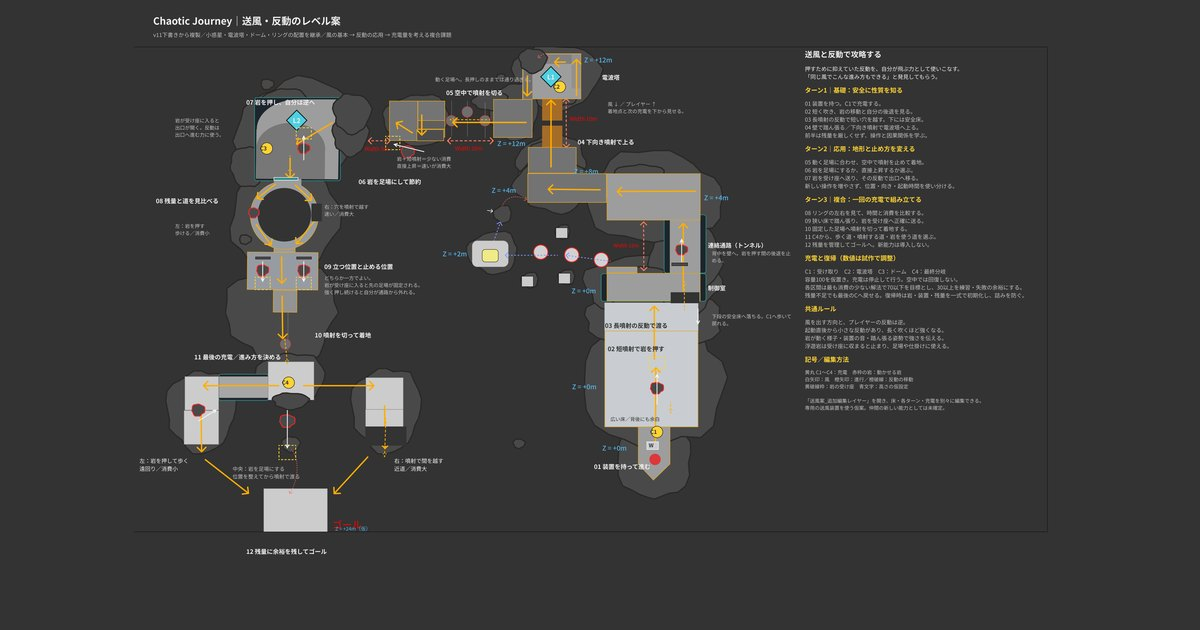
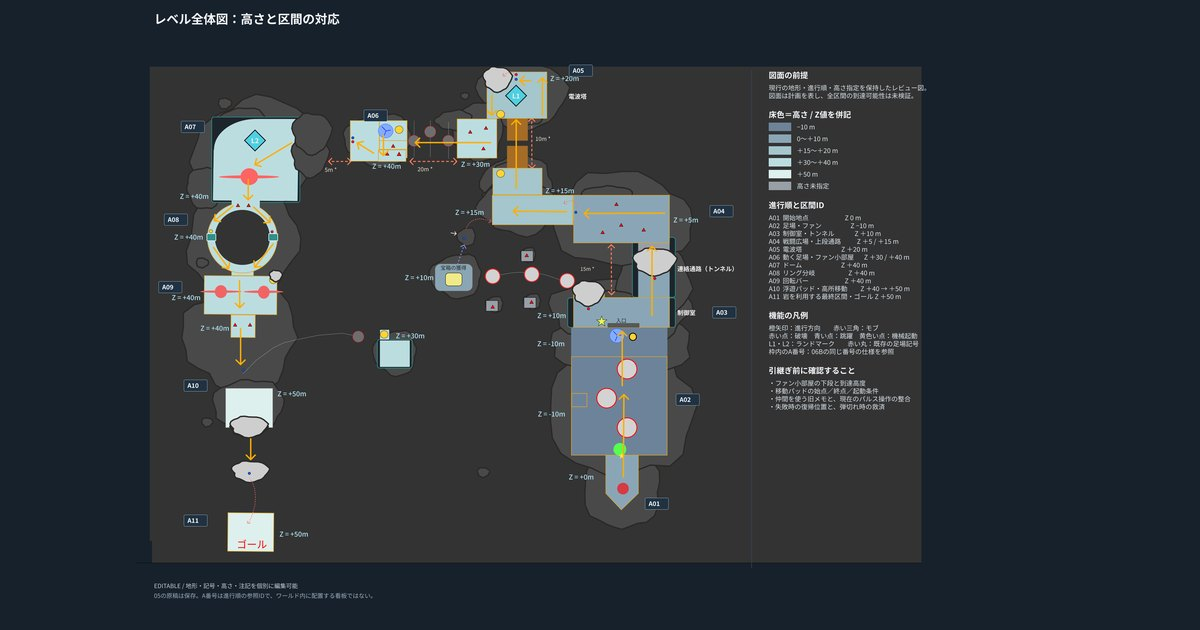
Show the Chaotic Journey level design process from Figma
The Figma file was reorganised into a numbered process (01 to 06C) and the
continuous-blast diagram the page used was removed from it. The page now
follows the file.

- The main diagram is 06A, the current design with heights and area IDs
  A01-A11. Its caption says it is a plan with reachability untested, and
  that some notes on it still date from the companion mechanic
- 06B area specifications follow it, with a collapsed verbatim text version
  so the eleven cards can be read on a phone
- 06C planned tension curve joins the design-approach section, captioned as
  a design assumption rather than a playtest measurement, with its reasoning
  as text
- A new "How the Level Diagram Evolved" section shows frames 01 to 06 in order
- Homepage thumbnail and social preview switched to 06A; the removed
  diagram's exports are deleted

All images are the Figma frames resized only, never cropped or edited.

Claude-Session: https://claude.ai/code/session_017J3Bm4c5h9nqCmjcLNDUdr

diff --git a/projects/project-06.html b/projects/project-06.html
@@ -152,31 +152,118 @@
       </div>
 
       <figure class="diagram-figure">
-        <a href="../assets/images/project-06/level-overview-full.webp" target="_blank" rel="noopener">
-          <img src="../assets/images/project-06/level-overview.webp" alt="Top-down level diagram of Chaotic Journey with route arrows, recharge points C1 to C4, movable rocks, heights, and a design memo split into three turns" width="1600" height="1082" />
+        <a href="../assets/images/project-06/06a-level-design-full.webp" target="_blank" rel="noopener">
+          <img src="../assets/images/project-06/06a-level-design.webp" alt="Current top-down level design of Chaotic Journey with floors coloured by height, orange route arrows, and area IDs A01 to A11" width="1600" height="1086" />
         </a>
         <figcaption>
-          <span class="lang-ja">レベル全体のトップダウン図(Figma)。進行ルート、充電地点(C1〜C4)、動かせる岩、高さの仮設定を示し、右のメモに「ターン1 基礎/ターン2 応用/ターン3 複合」の区間構成をまとめています。この図は継続送風の仕様で作成したもので、「長噴射・短噴射」「容量100」などは変更前の仮仕様です。単発パルスへの変更は図には反映されていません。</span>
-          <span class="lang-en">Top-down diagram of the whole level, drawn in Figma. It marks the route, recharge points C1–C4, movable rocks, and provisional heights; the memo on the right sets out the sections as Turn 1 (basics), Turn 2 (application), and Turn 3 (combination). The diagram was drawn for the earlier continuous-wind design, so its "long burst / short burst" and "capacity 100" notes are the provisional values from before the change. The switch to a single pulse is not reflected in it.</span>
+          <span class="lang-ja">現行のレベル設計図(Figma)。床の色で高さを、橙の矢印で進行方向を示し、各区間に A01〜A11 の区間IDを付けています。図面は計画を表すもので、全区間の到達可能性はまだ検証していません。図中のメモには仲間を使っていた時期の記述が残っており、現在のパルス操作との整合は、図の中でも確認事項として挙げています。</span>
+          <span class="lang-en">The current level design, drawn in Figma. Floor colour shows height, orange arrows show the route, and each section carries an area ID from A01 to A11. The diagram is a plan: whether every section can actually be reached has not been tested. Some notes on it still date from when the player used companions, and bringing them in line with the pulse controls is listed on the diagram itself as an open item.</span>
         </figcaption>
       </figure>
       <div class="build-actions">
-        <a class="btn btn-outline" href="../assets/images/project-06/level-overview-full.webp" target="_blank" rel="noopener">
-          <span class="lang-ja">全体図を拡大して見る</span><span class="lang-en">Open the full-size diagram</span>
+        <a class="btn btn-outline" href="../assets/images/project-06/06a-level-design-full.webp" target="_blank" rel="noopener">
+          <span class="lang-ja">設計図を拡大して見る</span><span class="lang-en">Open the full-size diagram</span>
         </a>
       </div>
 
+      <h3 class="subhead-sm" style="margin-top:var(--space-5);"><span class="lang-ja">区間ごとの仕様と検証事項</span><span class="lang-en">Area specifications and open questions</span></h3>
+      <p class="lang-ja" style="max-width:44em;color:var(--text-muted);margin:0 0 var(--space-3);">区間IDごとに、図面上の課題、成立条件、まだ決まっていないことを整理しました。成立条件はレビュー用の提案で、実装済み・検証済みという意味ではありません。</p>
+      <p class="lang-en" style="max-width:44em;color:var(--text-muted);margin:0 0 var(--space-3);">For each area ID I set out what the diagram asks of the player, a proposed condition for it to work, and what is still undecided. The conditions are proposals for review, not a claim that anything is implemented or tested.</p>
+      <figure class="diagram-figure">
+        <a href="../assets/images/project-06/06b-area-spec-full.webp" target="_blank" rel="noopener">
+          <img src="../assets/images/project-06/06b-area-spec.webp" alt="Area specification sheet with eleven cards, A01 to A11, each listing the design task, a proposed success condition, and open questions" width="1600" height="1398" loading="lazy" />
+        </a>
+        <figcaption>
+          <span class="lang-ja">区間仕様シート(Figma)。下部には「実機で測り、図面へ戻す値」をまとめ、測定するまでは図面上の高さ・距離だけで到達可能と判断しない、としています。</span>
+          <span class="lang-en">The area specification sheet, drawn in Figma. At the bottom it lists the values to measure in engine and carry back into the diagram, and states that nothing is judged reachable from the drawn heights and distances alone until they are measured.</span>
+        </figcaption>
+      </figure>
+
+      <details class="text-version">
+        <summary><span class="lang-ja">区間仕様をテキストで読む</span><span class="lang-en">Read the area specifications as text</span></summary>
+        <ul class="finding-list">
+          <li><h4><span class="lang-ja">A01|開始地点(Z 0 m)</span><span class="lang-en">A01 | Start (Z 0 m)</span></h4>
+            <dl>
+              <dt><span class="lang-ja">図面の課題</span><span class="lang-en">Task</span></dt><dd><span class="lang-ja">開始位置から、正面の足場区間へ進む。</span><span class="lang-en">From the start, head for the platforms ahead.</span></dd>
+              <dt><span class="lang-ja">成立条件(レビュー提案)</span><span class="lang-en">Condition (proposed)</span></dt><dd><span class="lang-ja">A02への進行方向と、安全な最初の着地点が分かる。</span><span class="lang-en">The way to A02 and a safe first landing spot are clear.</span></dd>
+              <dt><span class="lang-ja">未確定・検証事項</span><span class="lang-en">Open</span></dt><dd><span class="lang-ja">開始直後の操作説明。0 → −10 mの降下方法と復帰位置。</span><span class="lang-en">How controls are explained at the start; how the player descends from 0 to −10 m, and where they recover.</span></dd>
+            </dl></li>
+          <li><h4><span class="lang-ja">A02|足場・ファン(Z −10 m)</span><span class="lang-en">A02 | Platforms and fan (Z −10 m)</span></h4>
+            <dl>
+              <dt><span class="lang-ja">図面の課題</span><span class="lang-en">Task</span></dt><dd><span class="lang-ja">足場を渡り、ファンの働きを確認する。</span><span class="lang-en">Cross the platforms and see what the fan does.</span></dd>
+              <dt><span class="lang-ja">成立条件(レビュー提案)</span><span class="lang-en">Condition (proposed)</span></dt><dd><span class="lang-ja">足場から次の足場を発見でき、ファンの効果が観察できる。</span><span class="lang-en">Each next platform can be spotted from the last, and the fan's effect can be observed.</span></dd>
+              <dt><span class="lang-ja">未確定・検証事項</span><span class="lang-en">Open</span></dt><dd><span class="lang-ja">足場の直径・間隔・周期。ファンの到達高度。落下後の復帰。</span><span class="lang-en">Platform diameter, spacing, and cycle; the height the fan reaches; recovery after a fall.</span></dd>
+            </dl></li>
+          <li><h4><span class="lang-ja">A03|制御室・トンネル(Z +10 m)</span><span class="lang-en">A03 | Control room and tunnel (Z +10 m)</span></h4>
+            <dl>
+              <dt><span class="lang-ja">図面の課題</span><span class="lang-en">Task</span></dt><dd><span class="lang-ja">破壊ポイントを通過し、屋外へ進む。</span><span class="lang-en">Get through the breakable point and out into the open.</span></dd>
+              <dt><span class="lang-ja">成立条件(レビュー提案)</span><span class="lang-en">Condition (proposed)</span></dt><dd><span class="lang-ja">壊せる岩と背景岩を見分けられる。進行先が破壊後に明確になる。</span><span class="lang-en">Breakable rocks read differently from background rock, and the way on is clear once it is broken.</span></dd>
+              <dt><span class="lang-ja">未確定・検証事項</span><span class="lang-en">Open</span></dt><dd><span class="lang-ja">仲間による破壊という旧注記と、現在のパルス仕様の統一。</span><span class="lang-en">Reconciling an old note about companions breaking things with the current pulse design.</span></dd>
+            </dl></li>
+          <li><h4><span class="lang-ja">A04|戦闘広場・上段通路(Z +5 / +15 m)</span><span class="lang-en">A04 | Combat yard and upper walkway (Z +5 / +15 m)</span></h4>
+            <dl>
+              <dt><span class="lang-ja">図面の課題</span><span class="lang-en">Task</span></dt><dd><span class="lang-ja">モブへ対処し、次の高さの通路へ進む。</span><span class="lang-en">Deal with the enemies and move up to the next walkway.</span></dd>
+              <dt><span class="lang-ja">成立条件(レビュー提案)</span><span class="lang-en">Condition (proposed)</span></dt><dd><span class="lang-ja">戦闘中に移動の余地があり、終了後に進行先を見つけられる。</span><span class="lang-en">There is room to move during the fight, and the way on can be found after it.</span></dd>
+              <dt><span class="lang-ja">未確定・検証事項</span><span class="lang-en">Open</span></dt><dd><span class="lang-ja">敵の挙動と配置。高さ差を越える操作。各寸法の測定軸。</span><span class="lang-en">Enemy behaviour and placement; how the height change is climbed; the axes each dimension is measured on.</span></dd>
+            </dl></li>
+          <li><h4><span class="lang-ja">A05|電波塔(Z +20 m)</span><span class="lang-en">A05 | Radio tower (Z +20 m)</span></h4>
+            <dl>
+              <dt><span class="lang-ja">図面の課題</span><span class="lang-en">Task</span></dt><dd><span class="lang-ja">感圧盤で橋を起動し、崩れた階段を越える。</span><span class="lang-en">Raise the bridge with a pressure plate and get past the collapsed stairs.</span></dd>
+              <dt><span class="lang-ja">成立条件(レビュー提案)</span><span class="lang-en">Condition (proposed)</span></dt><dd><span class="lang-ja">スイッチと動く対象が対応して見える。次の区間へ進める。</span><span class="lang-en">The switch visibly corresponds to what it moves, and the player can move on.</span></dd>
+              <dt><span class="lang-ja">未確定・検証事項</span><span class="lang-en">Open</span></dt><dd><span class="lang-ja">仲間を投げる操作を残すか。橋の起動保持。+15 → +20 mの経路。</span><span class="lang-en">Whether to keep throwing a companion; how the bridge stays raised; the route from +15 to +20 m.</span></dd>
+            </dl></li>
+          <li><h4><span class="lang-ja">A06|動く足場・ファン小部屋(Z +30 / +40 m)</span><span class="lang-en">A06 | Moving platforms and fan room (Z +30 / +40 m)</span></h4>
+            <dl>
+              <dt><span class="lang-ja">図面の課題</span><span class="lang-en">Task</span></dt><dd><span class="lang-ja">動く足場を乗り継ぎ、ファンから段差を越える。</span><span class="lang-en">Ride the moving platforms, then use the fan to clear the step.</span></dd>
+              <dt><span class="lang-ja">成立条件(レビュー提案)</span><span class="lang-en">Condition (proposed)</span></dt><dd><span class="lang-ja">待機場所から足場の動きを観察でき、着地先が確認できる。</span><span class="lang-en">From a waiting spot the platforms' movement and the landing point can be seen.</span></dd>
+              <dt><span class="lang-ja">未確定・検証事項</span><span class="lang-en">Open</span></dt><dd><span class="lang-ja">小部屋の下段高度と上段+40 mの関係。パッドの移動範囲・速度。</span><span class="lang-en">How the room's lower level relates to the +40 m upper level; the pads' range and speed.</span></dd>
+            </dl></li>
+          <li><h4><span class="lang-ja">A07|ドーム(Z +40 m)</span><span class="lang-en">A07 | Dome (Z +40 m)</span></h4>
+            <dl>
+              <dt><span class="lang-ja">図面の課題</span><span class="lang-en">Task</span></dt><dd><span class="lang-ja">ドーム内の障害を抜けて、リング入口へ進む。</span><span class="lang-en">Get past the hazards inside the dome to the ring entrance.</span></dd>
+              <dt><span class="lang-ja">成立条件(レビュー提案)</span><span class="lang-en">Condition (proposed)</span></dt><dd><span class="lang-ja">障害の予兆と待機できる位置が分かる。出口を見失わない。</span><span class="lang-en">Hazards telegraph themselves, there is a clear place to wait, and the exit stays in view.</span></dd>
+              <dt><span class="lang-ja">未確定・検証事項</span><span class="lang-en">Open</span></dt><dd><span class="lang-ja">回転バーの導入方法。旧注記の「仲間を投げて岩破壊」の更新。</span><span class="lang-en">How the rotating bars are introduced; updating the old note "throw a companion to break the rock".</span></dd>
+            </dl></li>
+          <li><h4><span class="lang-ja">A08|リング分岐(Z +40 m)</span><span class="lang-en">A08 | Ring junction (Z +40 m)</span></h4>
+            <dl>
+              <dt><span class="lang-ja">図面の課題</span><span class="lang-en">Task</span></dt><dd><span class="lang-ja">左右の経路を選び、下側の出口で合流する。</span><span class="lang-en">Choose the left or right path; both rejoin at the lower exit.</span></dd>
+              <dt><span class="lang-ja">成立条件(レビュー提案)</span><span class="lang-en">Condition (proposed)</span></dt><dd><span class="lang-ja">分岐前に左右の課題の違いが読める。どちらからも合流できる。</span><span class="lang-en">The difference between the two sides can be read before choosing, and either side rejoins.</span></dd>
+              <dt><span class="lang-ja">未確定・検証事項</span><span class="lang-en">Open</span></dt><dd><span class="lang-ja">左右のスイッチが動かす対象。所要手順・リスク・消費の違い。</span><span class="lang-en">What each side's switch moves; how the two differ in steps, risk, and cost.</span></dd>
+            </dl></li>
+          <li><h4><span class="lang-ja">A09|回転バー(Z +40 m)</span><span class="lang-en">A09 | Rotating bars (Z +40 m)</span></h4>
+            <dl>
+              <dt><span class="lang-ja">図面の課題</span><span class="lang-en">Task</span></dt><dd><span class="lang-ja">岩を排除し、スイッチで回転バーを止める。</span><span class="lang-en">Clear the rock and stop the rotating bars with a switch.</span></dd>
+              <dt><span class="lang-ja">成立条件(レビュー提案)</span><span class="lang-en">Condition (proposed)</span></dt><dd><span class="lang-ja">岩・スイッチ・バーの因果関係を確認でき、安全に操作できる。</span><span class="lang-en">The link between rock, switch, and bar can be checked, and operated safely.</span></dd>
+              <dt><span class="lang-ja">未確定・検証事項</span><span class="lang-en">Open</span></dt><dd><span class="lang-ja">どのスイッチがどのバーを止めるか。片側/両側停止の必要条件。</span><span class="lang-en">Which switch stops which bar; whether one or both must be stopped.</span></dd>
+            </dl></li>
+          <li><h4><span class="lang-ja">A10|浮遊パッド・高所移動(出発 +40 m / ボタン +30 m / 到着 +50 m)</span><span class="lang-en">A10 | Floating pad and high traverse (start +40 m / button +30 m / arrival +50 m)</span></h4>
+            <dl>
+              <dt><span class="lang-ja">図面の課題</span><span class="lang-en">Task</span></dt><dd><span class="lang-ja">浮遊パッドを起動して接近し、高い床へ移る。</span><span class="lang-en">Start the floating pad, ride it close, and cross to the higher floor.</span></dd>
+              <dt><span class="lang-ja">成立条件(レビュー提案)</span><span class="lang-en">Condition (proposed)</span></dt><dd><span class="lang-ja">起動地点へ到達でき、パッド上から着地場所を確認できる。</span><span class="lang-en">The activation point is reachable, and the landing spot can be seen from the pad.</span></dd>
+              <dt><span class="lang-ja">未確定・検証事項</span><span class="lang-en">Open</span></dt><dd><span class="lang-ja">+30 mのボタンへの経路。パッドの始終点と上昇量。残りの跳躍量。</span><span class="lang-en">The route to the button at +30 m; the pad's start, end, and rise; the jump still needed after it.</span></dd>
+            </dl></li>
+          <li><h4><span class="lang-ja">A11|最終区間・ゴール(Z +50 m)</span><span class="lang-en">A11 | Final section and goal (Z +50 m)</span></h4>
+            <dl>
+              <dt><span class="lang-ja">図面の課題</span><span class="lang-en">Task</span></dt><dd><span class="lang-ja">岩を前に動かして乗り、パルスでゴールへ渡る。</span><span class="lang-en">Push a rock forward, ride it, and pulse across to the goal.</span></dd>
+              <dt><span class="lang-ja">成立条件(レビュー提案)</span><span class="lang-en">Condition (proposed)</span></dt><dd><span class="lang-ja">移動する岩に乗れる。着地面を見ながら操作でき、失敗から再試行できる。</span><span class="lang-en">The player can stand on the moving rock, see the landing surface while controlling, and retry after failing.</span></dd>
+              <dt><span class="lang-ja">未確定・検証事項</span><span class="lang-en">Open</span></dt><dd><span class="lang-ja">岩へ乗って運ばれる挙動の実装。初登場なら前半に安全な練習が必要。</span><span class="lang-en">Implementing being carried on the rock; if it first appears here, a safe practice earlier in the level is needed.</span></dd>
+            </dl></li>
+        </ul>
+        <p class="note lang-ja"><strong>実機で測り、図面へ戻す値:</strong>通常ジャンプの最高到達点/パルス1発の上昇量と水平到達距離/連続使用回数/充電時間/動く足場の始点・終点・速度・起動条件/各区間の失敗時復帰地点。これらを測定するまでは、図面上の高さ・距離だけで到達可能と判断しない。</p>
+        <p class="note lang-en"><strong>Values to measure in engine and carry back into the diagram:</strong> the peak of a normal jump; the rise and horizontal reach of one pulse; shots in a row; recharge time; the moving platforms' start, end, speed, and trigger; the recovery point after failing in each section. Until these are measured, nothing is judged reachable from the drawn heights and distances alone.</p>
+      </details>
+
       <!-- 差し替え: 同じ区間の「Figma拡大図」と「Unreal Engineの画面」を左右に並べる。
-           1. 比較する区間を決める(例: 図の区間番号 01〜12 のどれか)
-           2. Figma側: その区間を書き出した画像を assets/images/project-06/compare-figma.webp に置く
+           1. 比較する区間を区間ID(A01〜A11)で決める
+           2. Figma側: 06A のその区間を書き出した画像を assets/images/project-06/compare-figma.webp に置く
            3. Unreal側: 同じ区間を同じ向きで撮った画面を assets/images/project-06/compare-unreal.webp に置く
            4. 下の各 <div class="slot"> を
               <a href="../assets/images/project-06/compare-○○.webp" target="_blank" rel="noopener"><img src="../assets/images/project-06/compare-○○.webp" alt="(画像の内容)" loading="lazy" /></a>
-              に置き換え、figcaption の区間名を実際の区間に書き換える -->
+              に置き換え、figcaption に区間ID と区間名を書く -->
       <div class="compare-pair" data-placeholder="figma-unreal-pair">
         <figure>
           <div class="slot"><span class="lang-ja">画像準備中</span><span class="lang-en">Image in preparation</span></div>
-          <figcaption><strong><span class="lang-ja">Figma:区間の拡大図</span><span class="lang-en">Figma: section close-up</span></strong><span class="lang-ja">トップダウン図のうち、比較する区間の部分。</span><span class="lang-en">The part of the top-down diagram covering this section.</span></figcaption>
+          <figcaption><strong><span class="lang-ja">Figma:区間の拡大図</span><span class="lang-en">Figma: section close-up</span></strong><span class="lang-ja">設計図のうち、比較する区間の部分。</span><span class="lang-en">The part of the design diagram covering this section.</span></figcaption>
         </figure>
         <figure>
           <div class="slot"><span class="lang-ja">画像準備中</span><span class="lang-en">Image in preparation</span></div>
@@ -215,6 +302,85 @@
           <p class="lang-en">Rock breaking, recoil movement, and the shot limit come together, and the player works out their own approach. Rather than prescribing one answer, the aim is for solutions to come from the rules they have learned.</p>
         </li>
       </ul>
+
+      <h3 class="subhead-sm" style="margin-top:var(--space-5);"><span class="lang-ja">緊張度の推移(設計上の想定)</span><span class="lang-en">Planned tension curve</span></h3>
+      <p class="lang-ja" style="max-width:44em;color:var(--text-muted);margin:0 0 var(--space-3);">区間IDごとに、想定する緊張度を相対5段階で置きました。プレイテストの測定結果ではなく、図面をもとにした設計上の想定です。</p>
+      <p class="lang-en" style="max-width:44em;color:var(--text-muted);margin:0 0 var(--space-3);">The intended tension for each area ID, on a relative five-point scale. This is a design assumption drawn from the diagram, not a playtest measurement.</p>
+      <figure class="diagram-figure">
+        <a href="../assets/images/project-06/06c-pacing-full.webp" target="_blank" rel="noopener">
+          <img src="../assets/images/project-06/06c-pacing.webp" alt="Line chart of planned tension from A01 to the goal, rising to peaks at A06, A09, and A11 with dips at A05, A07, and A10" width="1600" height="704" loading="lazy" />
+        </a>
+        <figcaption>
+          <span class="lang-ja">緊張度の推移(Figma)。横軸は進行順で、区間の長さやプレイ時間の比率は表していません。A06・A09で上げ、A05・A07・A10で下げて、A11を山場にしています。</span>
+          <span class="lang-en">The planned tension curve, drawn in Figma. The horizontal axis is route order, not section length or play time. Tension rises at A06 and A09, drops at A05, A07, and A10, and peaks at A11.</span>
+        </figcaption>
+      </figure>
+      <details class="text-version">
+        <summary><span class="lang-ja">曲線の理由と成立条件をテキストで読む</span><span class="lang-en">Read the reasoning and conditions as text</span></summary>
+        <h4 class="lang-ja">上げ下げの理由</h4>
+        <h4 class="lang-en">Why it rises and falls</h4>
+        <ul class="plain-list lang-ja">
+          <li>A01〜A03:操作と仕掛けを理解する導入。失敗の圧力を抑える想定。</li>
+          <li>A04:敵と段差への対応で上げる。A05では観察・スイッチ操作へ切り替える。</li>
+          <li>A06:動く足場のタイミングと着地で上げる。A07では次の課題を観察できる間をつくる。</li>
+          <li>A08〜A09:経路選択から、岩・スイッチ・回転バーの処理へ。</li>
+          <li>A10:浮遊パッドの待ち時間を挟み、A11の最終移動へ。ゴール到達後は緊張を下げる。</li>
+        </ul>
+        <ul class="plain-list lang-en">
+          <li>A01–A03: an introduction to the controls and mechanisms, with little pressure from failure.</li>
+          <li>A04: enemies and a height change raise it. A05 switches to observing and operating switches.</li>
+          <li>A06: timing and landing on moving platforms raise it. A07 leaves room to study the next challenge.</li>
+          <li>A08–A09: from choosing a route to handling rocks, switches, and rotating bars.</li>
+          <li>A10: a wait on the floating pad before the final move in A11. Tension drops once the goal is reached.</li>
+        </ul>
+        <h4 class="lang-ja">この曲線を成立させるために</h4>
+        <h4 class="lang-en">What the curve depends on</h4>
+        <ul class="plain-list lang-ja">
+          <li>A05・A07・A10の低下は目標。安全に止まって観察できる位置があるか確認する。</li>
+          <li>A11の高まりを「操作が分からない」「初めての仕組み」で作らない。岩に乗る操作は事前の練習が必要。</li>
+          <li>落下後の戻り距離や弾切れが長い停滞を生む場合は、曲線より復帰設計を先に修正する。</li>
+        </ul>
+        <ul class="plain-list lang-en">
+          <li>The dips at A05, A07, and A10 are goals: check that each has a safe place to stop and look.</li>
+          <li>The peak at A11 must not come from unclear controls or a mechanism seen for the first time. Riding the rock needs practice earlier.</li>
+          <li>If the walk back after a fall, or running out of shots, causes long stalls, fix recovery before adjusting the curve.</li>
+        </ul>
+      </details>
+    </section>
+
+    <!-- ================= レベル図の変遷 ================= -->
+    <section id="process">
+      <div class="section-head">
+        <h2><span class="lang-ja">レベル図の変遷</span><span class="lang-en">How the Level Diagram Evolved</span></h2>
+        <p class="lang-ja">Figmaのトップダウン図を、最初の配置から現在の設計図まで段階ごとに作り直してきました。初期は仲間を持つ・投げる操作を前提にしていた図が、高さと区間IDを持つ現在の設計図へ移っていきます。画像をクリックすると原寸で開きます。</p>
+        <p class="lang-en">I redrew the top-down diagram in Figma in stages, from the first layout to the current design. Early versions assume the player carries and throws companions; the later ones become the current diagram with heights and area IDs. Click any image to open it at full size.</p>
+      </div>
+      <div class="diagram-grid">
+        <figure>
+          <a href="../assets/images/project-06/process-01-initial-full.webp" target="_blank" rel="noopener"><img src="../assets/images/project-06/process-01-initial.webp" alt="First layout with grey rooms, floating pads, enemies, companions, a fan, and a legend" width="1000" height="622" loading="lazy" /></a>
+          <figcaption><strong><span class="lang-ja">01 初期配置</span><span class="lang-en">01 First layout</span></strong><span class="lang-ja">部屋と足場の配置に、仲間・敵・ボタン・ファン・ジャンプパッド・橋を記号で置いた最初の図。</span><span class="lang-en">Rooms and platforms, with companions, enemies, buttons, a fan, a jump pad, and bridges marked as symbols.</span></figcaption>
+        </figure>
+        <figure>
+          <a href="../assets/images/project-06/process-02-space-theme-full.webp" target="_blank" rel="noopener"><img src="../assets/images/project-06/process-02-space-theme.webp" alt="Map themed as an asteroid base with landmarks, exploration points, checkpoints, and coins" width="1000" height="661" loading="lazy" /></a>
+          <figcaption><strong><span class="lang-ja">02 宇宙テーマへの展開</span><span class="lang-en">02 Space theme</span></strong><span class="lang-ja">小惑星の岩、基地の内部、金属の通路を描き分け、ランドマーク(電波塔・観測ドーム・発着場の光の柱)、探索要素、チェックポイント、コインを追加。</span><span class="lang-en">Asteroid rock, base interiors, and metal walkways drawn apart, with landmarks (radio tower, observation dome, launch-pad light), exploration points, checkpoints, and coins added.</span></figcaption>
+        </figure>
+        <figure>
+          <a href="../assets/images/project-06/process-03-companion-full.webp" target="_blank" rel="noopener"><img src="../assets/images/project-06/process-03-companion.webp" alt="Earlier proposal reorganising sections 01 to 06 around carrying, throwing, and recovering a companion" width="1000" height="783" loading="lazy" /></a>
+          <figcaption><strong><span class="lang-ja">03 仲間ギミックの検討(旧案)</span><span class="lang-en">03 Companion mechanics (earlier proposal)</span></strong><span class="lang-ja">仲間を持つ・投げる・回収する前提で、区間01〜06を組み直した案。</span><span class="lang-en">Sections 01–06 reorganised around carrying, throwing, and recovering a companion.</span></figcaption>
+        </figure>
+        <figure>
+          <a href="../assets/images/project-06/process-04-v11-revised-full.webp" target="_blank" rel="noopener"><img src="../assets/images/project-06/process-04-v11-revised.webp" alt="Revised map with heights and widths written on each floor and turn-by-turn notes on the right" width="1000" height="478" loading="lazy" /></a>
+          <figcaption><strong><span class="lang-ja">04 改訂版(区間別)</span><span class="lang-en">04 Revised, by section</span></strong><span class="lang-ja">床ごとに高さ(Z値)と幅を書き込み、ターン1〜3でプレイヤーが経験することを右側に整理。</span><span class="lang-en">Height (Z) and width written onto each floor, with what the player experiences in Turns 1–3 set out on the right.</span></figcaption>
+        </figure>
+        <figure>
+          <a href="../assets/images/project-06/process-05-height-colour-full.webp" target="_blank" rel="noopener"><img src="../assets/images/project-06/process-05-height-colour.webp" alt="Presentation version with floors coloured by height, a symbol key, and design notes" width="1000" height="679" loading="lazy" /></a>
+          <figcaption><strong><span class="lang-ja">05 高さ別カラー</span><span class="lang-en">05 Coloured by height</span></strong><span class="lang-ja">床を高さ別に色分けし、記号の意味と設計メモをまとめた版。高さが未記入の床に、推測の数値は加えていません。</span><span class="lang-en">Floors coloured by height, with a symbol key and design notes. No guessed values were added to floors without a recorded height.</span></figcaption>
+        </figure>
+        <figure>
+          <a href="../assets/images/project-06/06a-level-design-full.webp" target="_blank" rel="noopener"><img src="../assets/images/project-06/06a-level-design.webp" alt="Current level design with area IDs A01 to A11" width="1600" height="1086" loading="lazy" /></a>
+          <figcaption><strong><span class="lang-ja">06 現行の設計図</span><span class="lang-en">06 Current design</span></strong><span class="lang-ja">区間ID A01〜A11 を付け、区間仕様と緊張度の想定に対応させた版(<a href="#level">上で詳しく紹介</a>)。</span><span class="lang-en">Area IDs A01–A11 added and tied to the area specifications and the tension curve (<a href="#level">shown in detail above</a>).</span></figcaption>
+        </figure>
+      </div>
     </section>
 
     <!-- ================= 5. 改善の経緯と現在の課題 ================= -->

diff --git a/css/style.css b/css/style.css
@@ -267,10 +267,10 @@ figure.gallery-item a { display: block; }
 .diagram-set:last-of-type { margin-bottom: 0; }
 .diagram-set h3 { font-size: 22px; font-weight: 700; margin: 0 0 var(--space-1); line-height: 1.5; }
 .diagram-set > p { color: var(--text-muted); max-width: 44em; margin: 0 0 var(--space-3); }
-.diagram-grid { display: grid; grid-template-columns: repeat(auto-fit, minmax(min(100%, 260px), 1fr)); gap: var(--space-3); align-items: start; }
+.diagram-grid { display: grid; grid-template-columns: repeat(auto-fit, minmax(min(100%, 300px), 1fr)); gap: var(--space-3); align-items: start; }
 .diagram-grid figure { margin: 0; }
-.diagram-grid a { display: block; border: 1px solid var(--border); border-radius: var(--radius); overflow: hidden; background: #fcfbfc; }
-.diagram-grid a:hover { border-color: var(--accent); }
+.diagram-grid figure > a { display: block; border: 1px solid var(--border); border-radius: var(--radius); overflow: hidden; background: #fcfbfc; }
+.diagram-grid figure > a:hover { border-color: var(--accent); }
 .diagram-grid img { width: 100%; height: auto; }
 .diagram-grid figcaption { margin-top: var(--space-1); font-size: 14px; color: var(--text-muted); }
 .diagram-grid figcaption strong { display: block; color: var(--text); font-size: 16px; }
@@ -291,6 +291,18 @@ figure.gallery-item a { display: block; }
 .evidence-grid figure { margin: 0; }
 .evidence-grid img { width: 100%; height: auto; border-radius: var(--radius); border: 1px solid var(--border); background: var(--bg-subtle); }
 .evidence-grid figcaption { margin-top: var(--space-1); font-size: 14px; color: var(--text-muted); }
+
+/* Dense diagrams get a text version underneath, collapsed, so phones can read them. */
+.text-version { margin: var(--space-2) 0 0; max-width: 820px; border: 1px solid var(--border); border-radius: var(--radius); }
+.text-version > summary { display: flex; align-items: center; min-height: 48px; padding: 0 var(--space-2); font-weight: 700; color: var(--accent); cursor: pointer; }
+.text-version > summary:hover { background: var(--bg-subtle); }
+.text-version > summary:focus-visible { outline: 3px solid var(--accent); outline-offset: 2px; }
+.text-version[open] > summary { border-bottom: 1px solid var(--border); }
+.text-version > :not(summary) { margin-left: var(--space-2); margin-right: var(--space-2); }
+.text-version .finding-list { border-top: 0; }
+.text-version h4 { font-size: 16px; font-weight: 700; margin: var(--space-3) 0 var(--space-1); }
+.text-version > .note { margin-bottom: var(--space-2); }
+.text-version > .plain-list:last-child { margin-bottom: var(--space-2); }
 
 .thumb-diagram { background: #fcfbfc; border: 1px solid var(--border); }
 .thumb-diagram img { object-fit: contain; padding: var(--space-2); }

diff --git a/index.html b/index.html
@@ -108,7 +108,7 @@
         </div>
       </a>
       <a class="work-card" href="projects/project-06.html" data-genre="level-design">
-        <div class="work-thumb thumb-map"><img src="assets/images/project-06/level-overview.webp" alt="Chaotic Journey top-down level diagram" loading="lazy" /></div>
+        <div class="work-thumb thumb-map"><img src="assets/images/project-06/06a-level-design.webp" alt="Chaotic Journey top-down level diagram" loading="lazy" /></div>
         <div class="work-body">
           <p class="work-meta"><span class="lang-ja">レベルデザイン ・ Unreal Engine 5.8 ・ 個人制作 ・ 制作中</span><span class="lang-en">Level Design · Unreal Engine 5.8 · Solo · In development</span></p>
           <h3>Chaotic Journey</h3>
